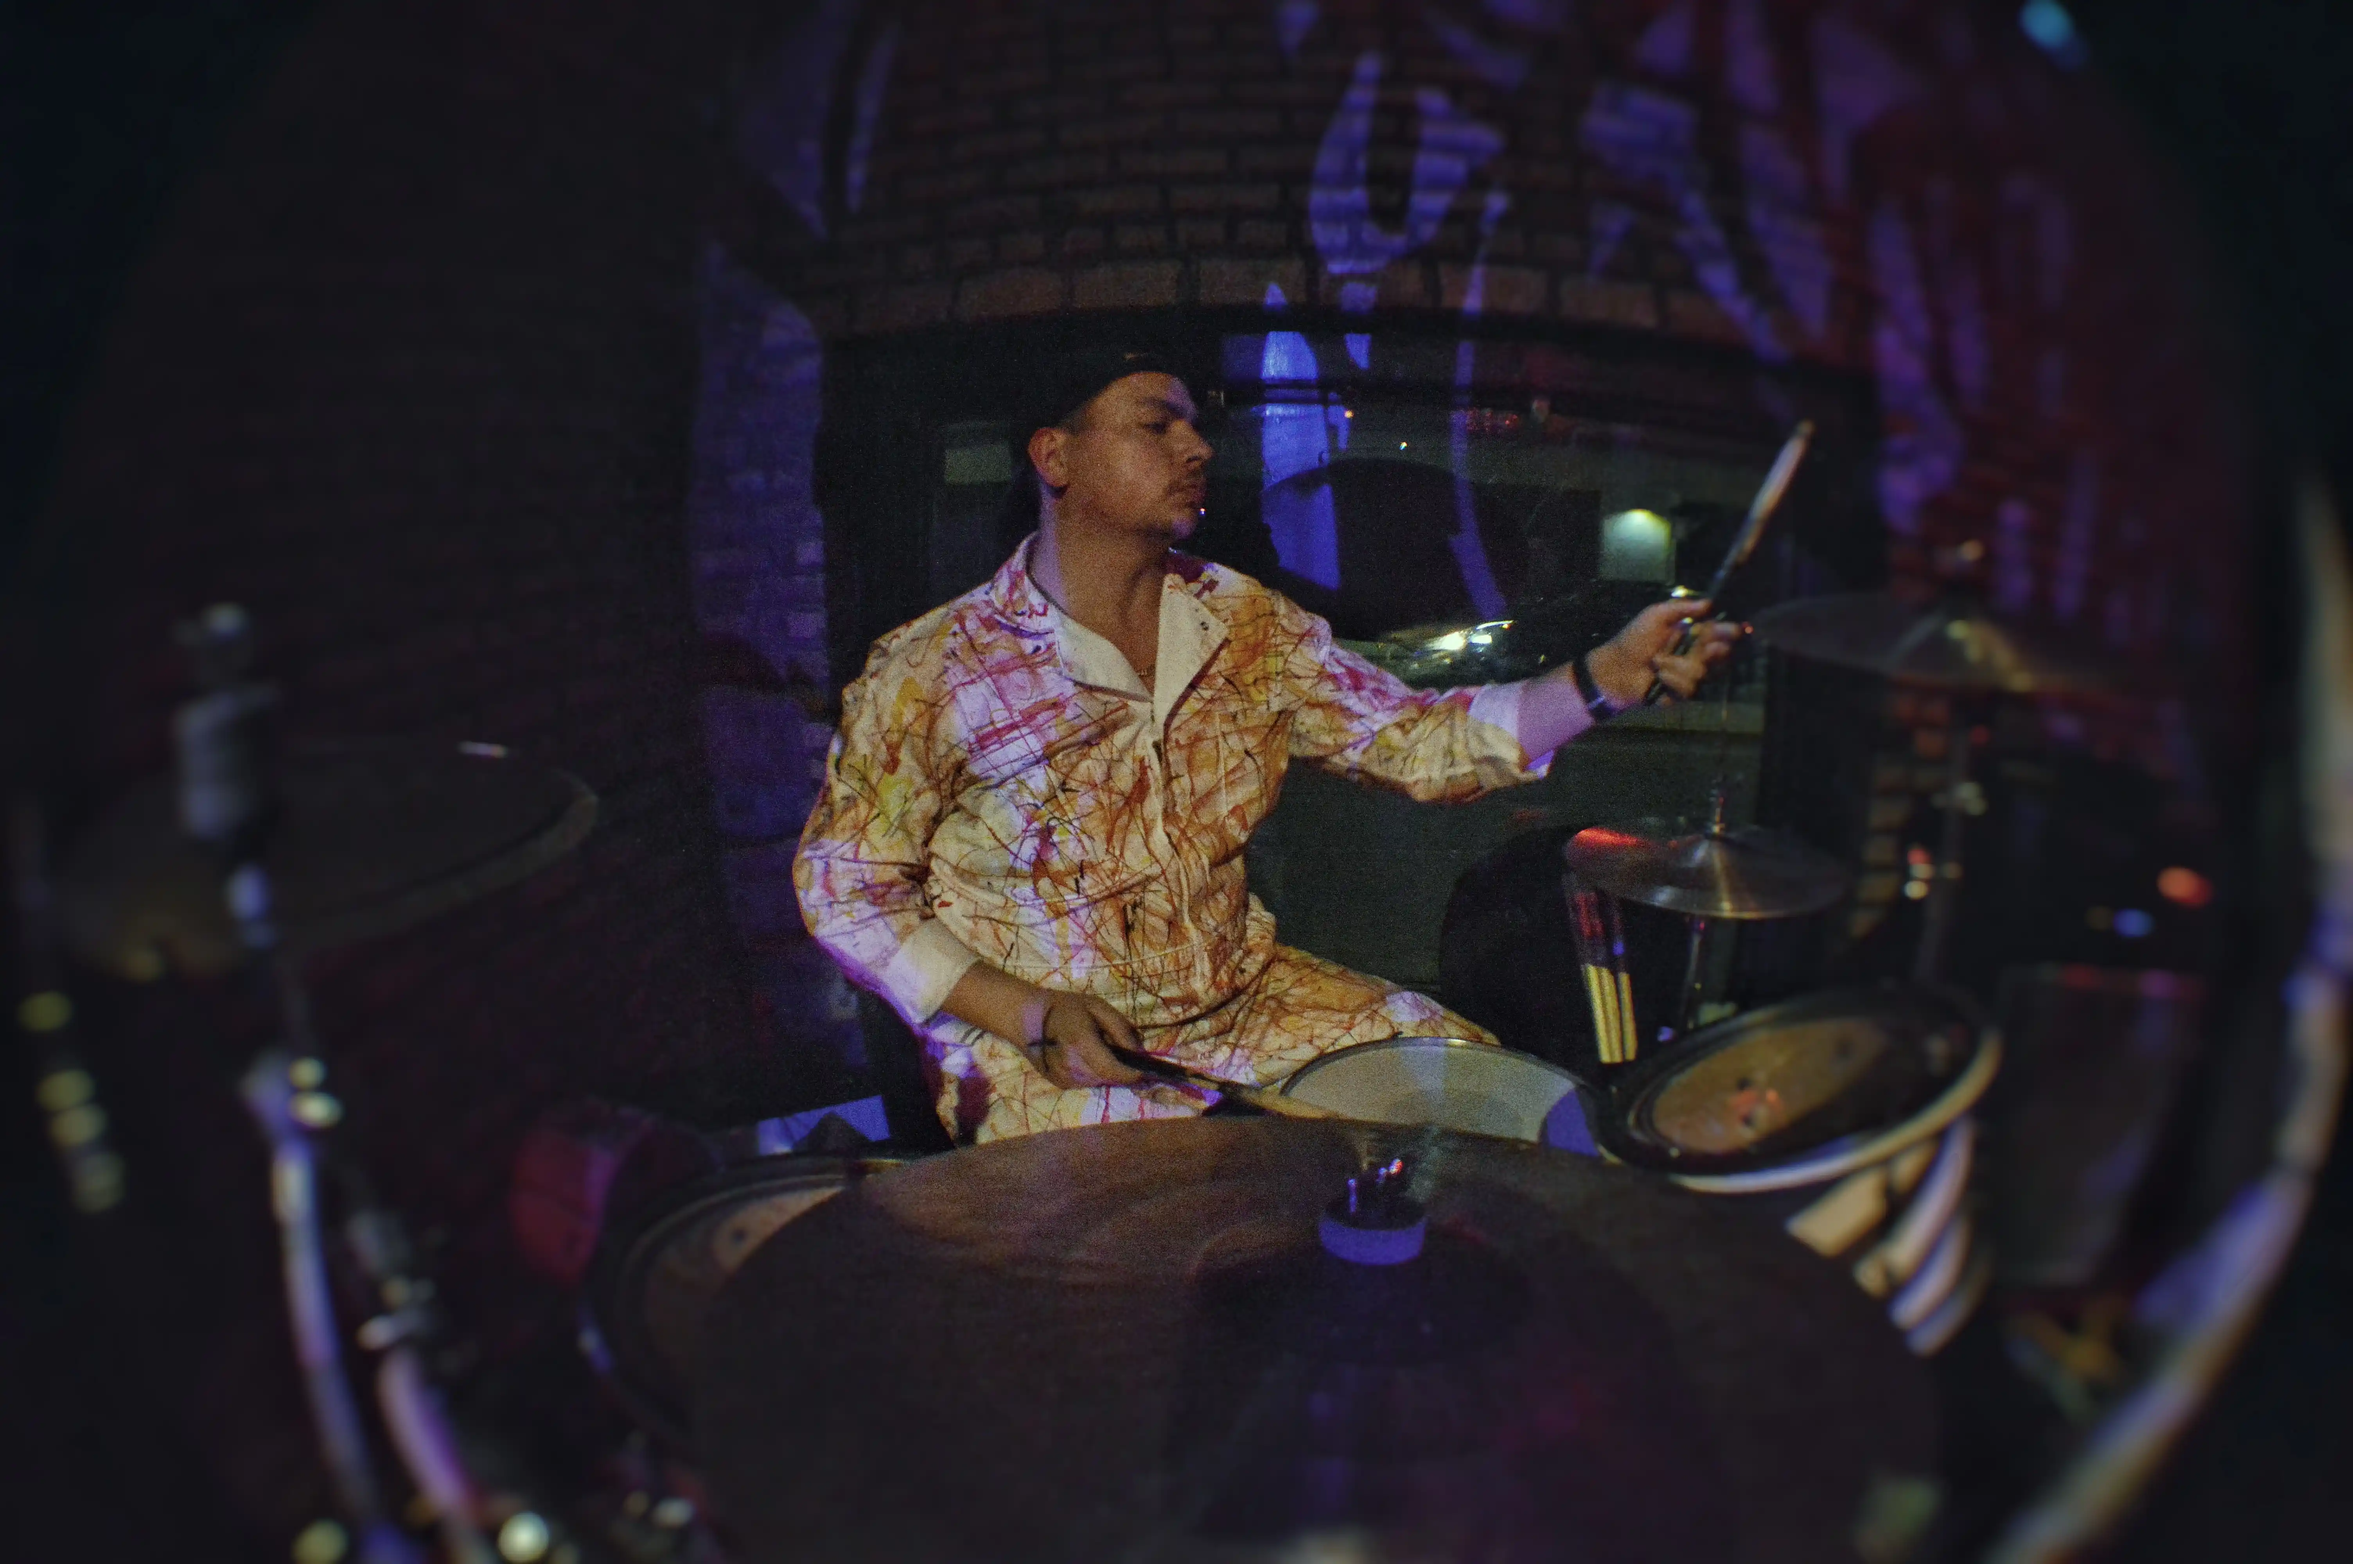
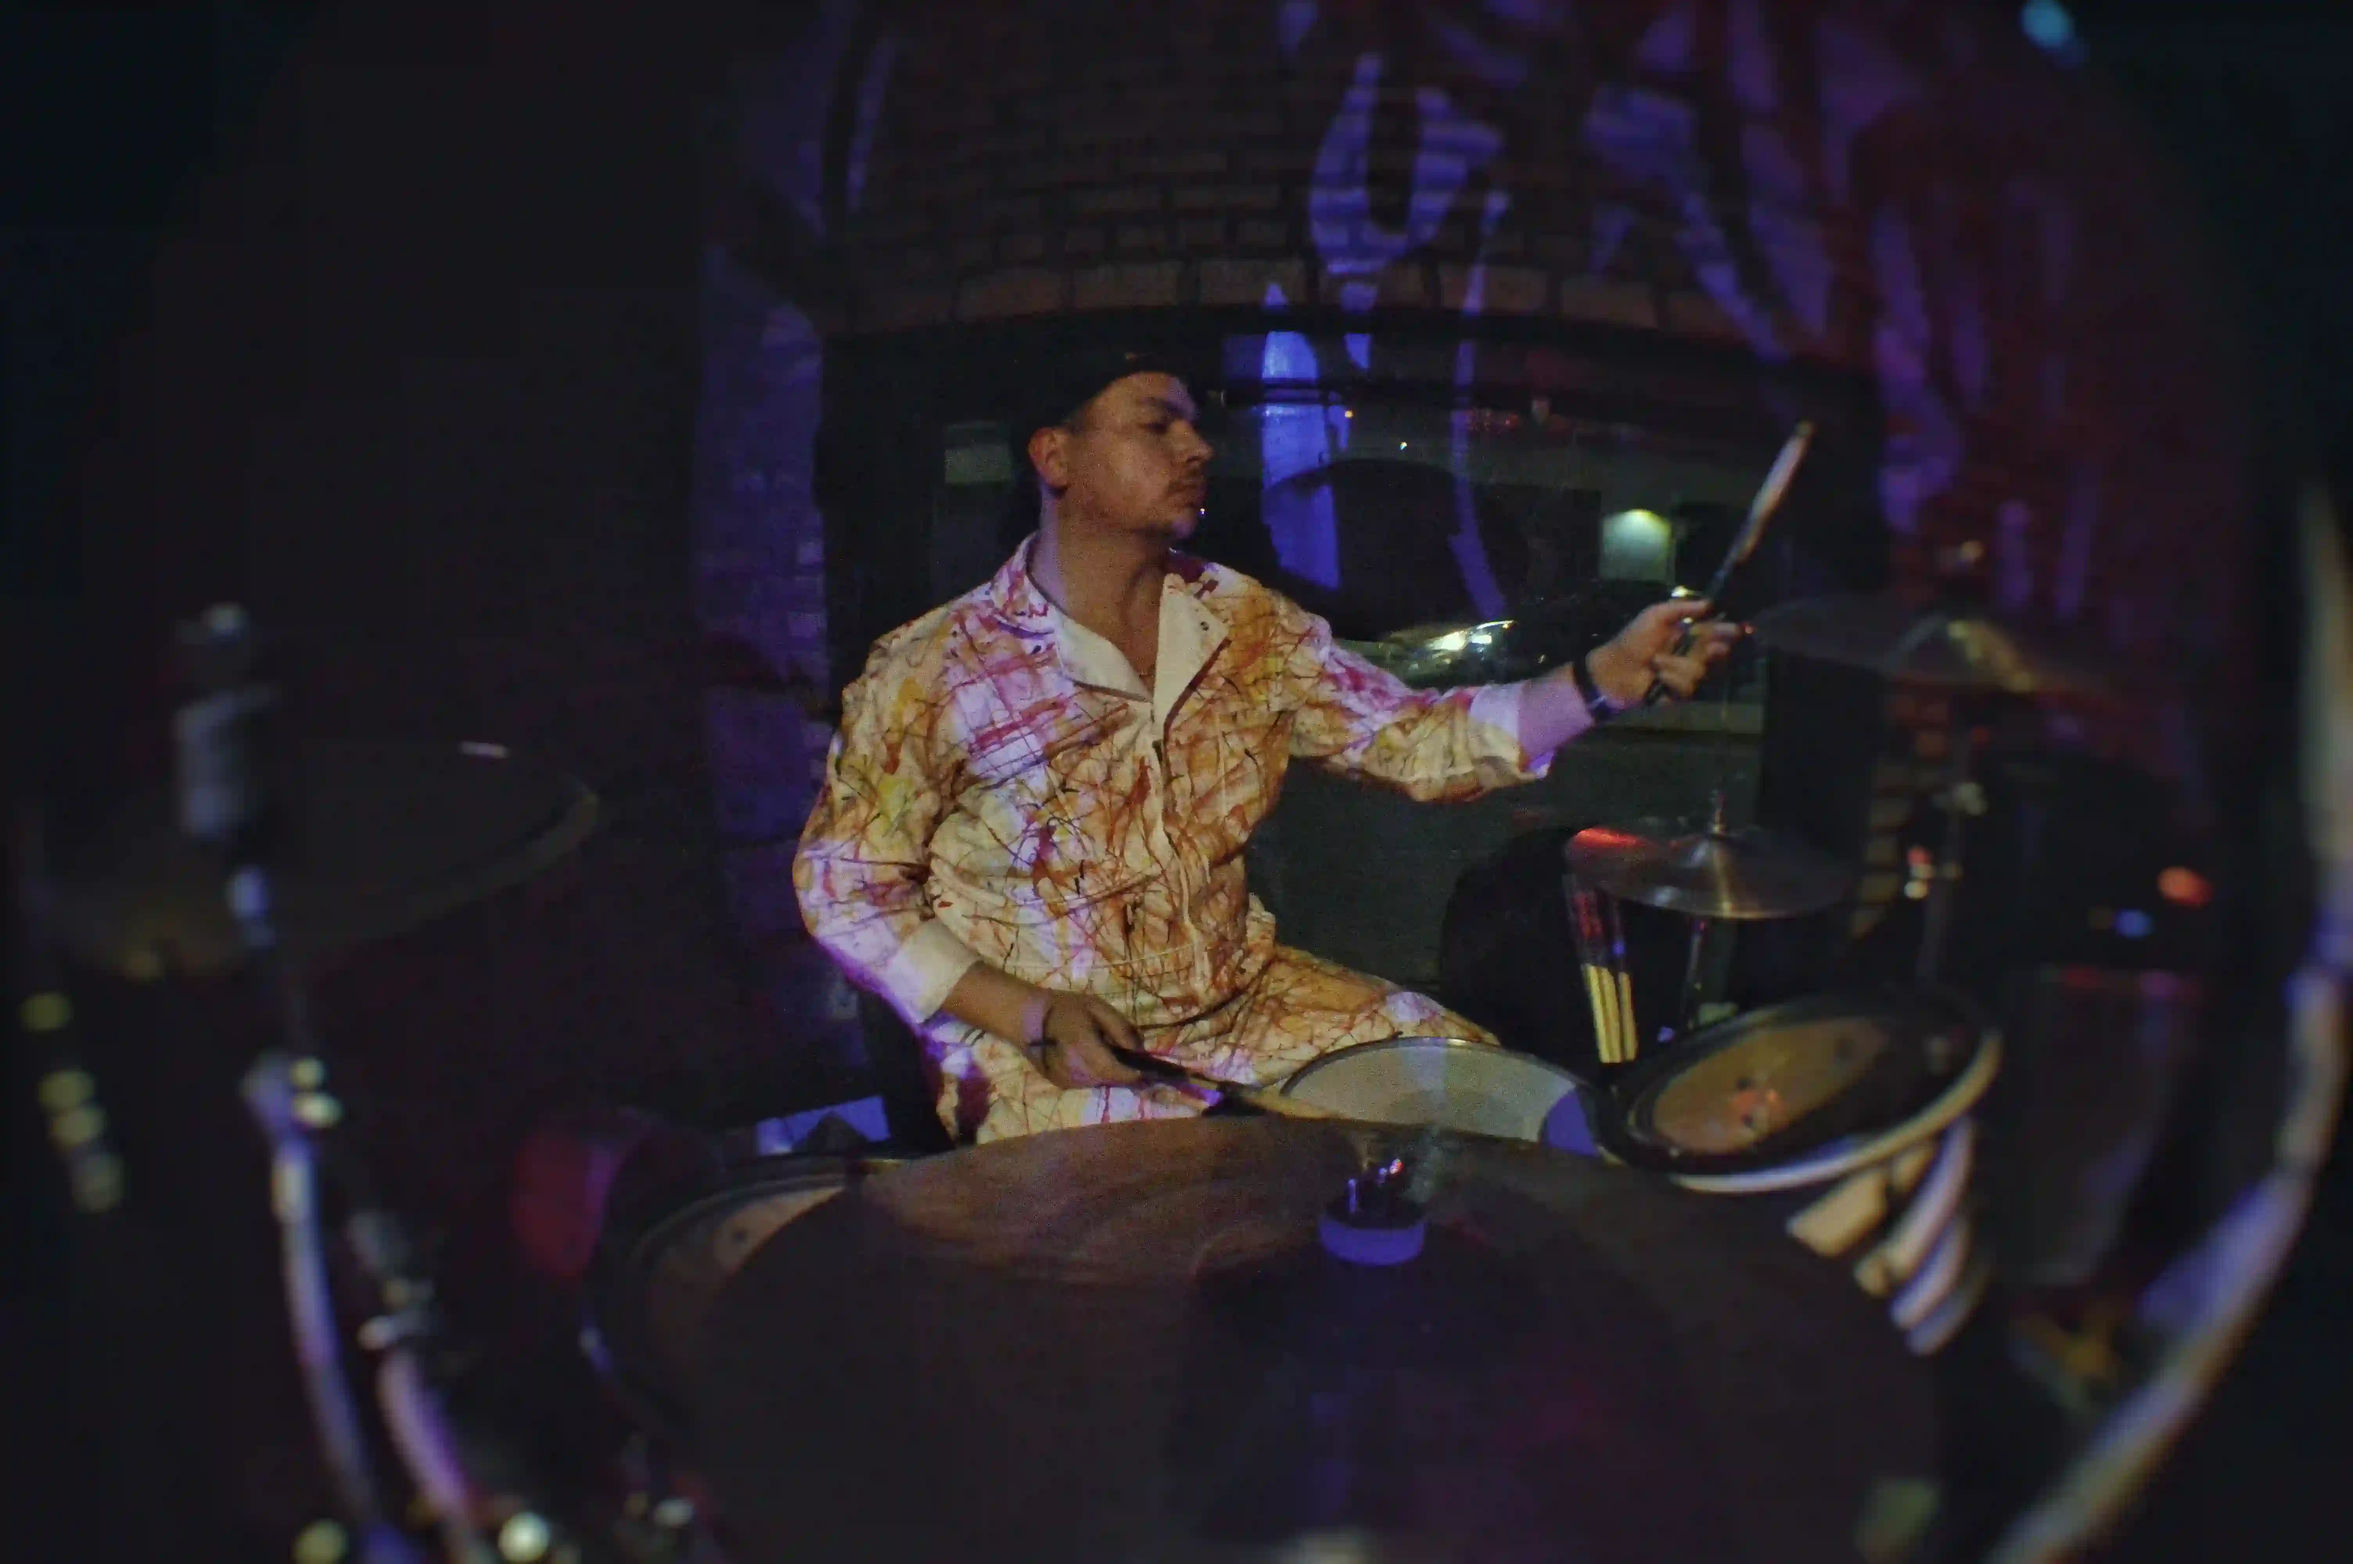
dowsizing images, fixed some styling issues

diff --git a/static/css/main.css b/static/css/main.css
@@ -3,52 +3,106 @@
 
 :root {
     color: white;
-    margin: 2rem;
     font-family: system-ui, -apple-system, BlinkMacSystemFont, 'Segoe UI', Roboto, Oxygen, Ubuntu, Cantarell, 'Open Sans', 'Helvetica Neue', sans-serif;
     text-align: left;
+    /* background-color: black; */
+    /* margin: 0 auto; */
     
+}
+*,
+*::before,
+*::after {
+    box-sizing: border-box;
+}
+
+html {
+    overflow-x: hidden;
 }
 
 
+
 body {
-    display: flex;
+    /* display: flex;
     flex-direction: column;
     align-items: center;
-    
+    background: black; */
     &.home {
-        background: url('../assets/backgrounds/indexbackground.jpeg') no-repeat center center fixed;
+        background: url('../assets/backgrounds/indexbackground.WebP') no-repeat center center fixed;
+        background-size: cover;
+    }
+    &.home.loaded {
+        background: url('../assets/backgrounds-small/indexbackground_small.WebP') no-repeat center center fixed;
+        background-size: cover;
+        background: url('../assets/backgrounds/indexbackground.WebP') no-repeat center center fixed;
         background-size: cover;
     }
     &.shows {
-        background: url('../assets/backgrounds/showsbackground.jpeg') no-repeat center center fixed;
+        background: url('../assets/backgrounds/showsbackground.WebP') no-repeat center center fixed;
         background-size: cover;
+    }
+    &.shows.loaded {
+    background: url('../assets/backgrounds-small/showsbackground_small.WebP') no-repeat center center fixed;
+    background-size: cover;
+    background: url('../assets/backgrounds/showsbackground.WebP') no-repeat center center fixed;
+    background-size: cover;
     }
     &.contact {
-        background: url('../assets/backgrounds/contactbackground.jpeg') no-repeat center center fixed;
+        background: url('../assets/backgrounds/contactbackground.WebP') no-repeat center center fixed;
         background-size: cover;
     }
+    &.contact.loaded {
+    background: url('../assets/backgrounds-small/contactbackground_small.WebP') no-repeat center center fixed;
+    background-size: cover;
+    background: url('../assets/backgrounds/contactbackground.WebP') no-repeat center center fixed;
+    background-size: cover;
+    }
     &.music {
-    background: url('../assets/backgrounds/musicbackground.jpeg') no-repeat center center fixed;
+    background: url('../assets/backgrounds/musicbackground.WebP') no-repeat center center fixed;
+    background-size: cover;
+    }
+    &.music.loaded {
+    background: url('../assets/backgrounds-small/musicbackground_small.WebP') no-repeat center center fixed;
+    background-size: cover;
+    background: url('../assets/backgrounds/musicbackground.WebP') no-repeat center center fixed;
     background-size: cover;
     }
     &.lessons {
-    background: url('../assets/backgrounds/lessonsbackground.jpeg') no-repeat center center fixed;
+    background: url('../assets/backgrounds/lessonsbackground.WebP') no-repeat center center fixed;
+    background-size: cover;
+    }
+    &.lessons.loaded {
+    background: url('../assets/backgrounds-small/lessonsbackground_small.WebP') no-repeat center center fixed;
+    background-size: cover;
+    background: url('../assets/backgrounds/lessonsbackground.WebP') no-repeat center center fixed;
     background-size: cover;
     }
     &.video {
-    background: url('../assets/backgrounds/videobackground.jpeg') no-repeat center center fixed;
+    background: url('../assets/backgrounds/videobackground.WebP') no-repeat center center fixed;
+    background-size: cover;
+    }
+    &.video.loaded {
+    background: url('../assets/backgrounds-small/videobackground_small.WebP') no-repeat center center fixed;
+    background-size: cover;
+    background: url('../assets/backgrounds/videobackground.WebP') no-repeat center center fixed;
     background-size: cover;
     }
     &.merch {
-    background: url('../assets/backgrounds/merchbackground.jpeg') no-repeat center center fixed;
+    background: url('../assets/backgrounds/merchbackground.WebP') no-repeat center center fixed;
+    background-size: cover;
+    }
+    &.merch.loaded {
+    background: url('../assets/backgrounds-small/merchbackground_small.WebP') no-repeat center center fixed;
+    background-size: cover;
+    background: url('../assets/backgrounds/merchbackground.WebP') no-repeat center center fixed;
     background-size: cover;
     }
     
 }
 .content {
-    margin-top: 3rem;
-    padding: 2rem;
-    width: 80%;
+    /* margin-top: 3rem; */
+    max-width: 1100px;
+    margin: 0 auto;
+    padding: 0 2rem;
     /* background-image: linear-gradient(to bottom right, rgba(84, 14, 14, 0.553), rgba(0, 0, 0, 0.46)); */
     background: rgba(22, 15, 15, 0.53);
     border-radius: 0px;
@@ -148,11 +202,11 @@ dialog::backdrop {
 footer {
     background-color: black;
     height: 90vh;
-    width: 100vw;
+    width: 100%;
     margin-bottom: -5rem;
     padding: 1rem;
     img {
-        width: 30vw;
+        height: 50%;
     }
 
 
@@ -170,7 +224,7 @@ footer {
     }
 
     p {
-        width: 100%;
+        width: 80%;
         text-align: center;
     }
     
@@ -339,7 +393,7 @@ footer {
 
 .alert {
     background-color: black;
-    width: 100vw;
+    width: 100%;
     margin-top: -2rem;
     p { 
         
@@ -447,7 +501,7 @@ footer {
     
     .content {
         margin-top: 6rem;
-        width: 98%;
+        width: 100%;
     }
 
     p { 
@@ -504,9 +558,14 @@ footer {
     }
 
     footer {
+        width: 100%;
         padding: 0;
+        margin: 0;
+
+
         img {
-            width: 60vw;
+            height: auto;
+            width: 65%;
         }
         li {
             margin: .7rem;
@@ -624,17 +683,15 @@ footer {
     }
 
 
-    .footer {
-        height: 80vh;
-    }
+
 
 }
 
 @media (max-width: 1000px) {
 
-    :root {
+    /* :root {
         margin: .5rem;
-    }
+    } */
     body.lessons {
         background: none;
         background-color: black;

diff --git a/templates/public/index.html b/templates/public/index.html
@@ -4,6 +4,9 @@
 <title>A Mammoth Task</title>
 {% endblock %}
 
+{% block head %}
+     <link rel="preload" as="image" href="{{ url_for('static', filename='assets/backgrounds/indexbackground.WebP')}}">
+{% endblock %}
 
 {% block body %}
 <body class="home">
@@ -41,7 +44,7 @@
                 <h1>Tasteless</h1>
                 <div style="justify-self: center;" class="flex-row album-announcement">
                     <div>
-                        <img src="{{ url_for('static', filename='assets/album-covers/tastelesscover.png') }}" alt="Taseteless album cover">
+                        <img load="lazy" src="{{ url_for('static', filename='assets/album-covers/tastelesscover.png') }}" alt="Taseteless album cover">
                     </div>
                     <div class="flex-column">
                         <p>
@@ -115,7 +118,7 @@
         <section>
             <h2 style="text-align: center;">Meet the Band</h2>
             <div class="flex-row bio-row">
-                <img src="{{ url_for('static', filename='assets/bios/chris.jpeg' )}}" alt="">
+                <img load="lazy" src="{{ url_for('static', filename='assets/bios/chris.jpeg' )}}" alt="">
                 <div>
                     <h4>Chris Fleming</h4>
                     <p>Bass/Vocals</p>
@@ -123,7 +126,7 @@
                 <p>As a young boy, Chris cut his teeth running sound for his dad's cover band of fisherman, Hookset. He's been in AMT since the very beginning and begrudgingly took on the task of learning how to sing. Outside of the band, he is a hoarder of masks, p-basses, and zoological artifacts of questionable legality. </p>
             </div>
             <div class="flex-row bio-row">
-                <img src="{{ url_for('static', filename='assets/bios/john.jpeg' )}}" alt="">
+                <img load="lazy" src="{{ url_for('static', filename='assets/bios/john.jpeg' )}}" alt="">
                 <div>
                     <h4>John Fitzgerald</h4>
                     <p>Drums</p>
@@ -131,7 +134,7 @@
                 <p>John spent his formative years pretending to be The Rev behind an electric kit. Chicago scenesters may know John as the drummer in Home Entertainment (RIP). He joined AMT in 2018 and has produced all of our albums since. If you're in the market for an audio engineer, look no further than J-Fitz Audio.</p>
             </div>
             <div class="flex-row bio-row">
-                <img src="{{ url_for('static', filename='assets/bios/logan.jpeg' )}}" alt="">
+                <img load="lazy" src="{{ url_for('static', filename='assets/bios/logan.jpeg' )}}" alt="">
                 <div>
                     <h4>Logan Huber</h4>
                     <p>Guitar</p>

diff --git a/templates/public/base.html b/templates/public/base.html
@@ -4,6 +4,9 @@
     <meta charset="UTF-8">
     <meta name="viewport" content="width=device-width, initial-scale=1.0">
     <meta name="description" content="Official website for the Chicago Prog Punk band A Mammoth Task.">
+    <!-- block head is used for 'preload' img message in link tag -->
+    {% block head %}
+    {% endblock %}
     <link rel="stylesheet" href="{{ url_for('static', filename='css/main.css') }}">
     <link rel="stylesheet" href="https://cdnjs.cloudflare.com/ajax/libs/font-awesome/4.7.0/css/font-awesome.min.css">
     {% block title %}
@@ -40,7 +43,7 @@
             </ul>
         </nav>
 
-        <img class="logo" src="{{ url_for('static', filename='assets/amt_logo.png') }}">
+        <img load="lazy" class="logo" src="{{ url_for('static', filename='assets/amt_logo_small.WebP') }}">
 
     <nav class="navbar">
         <ul class="nav-links flex-row link-icons">
@@ -66,7 +69,7 @@
             <li><a target="_blank" href="https://amammothtaskofficial.bandcamp.com/track/on-the-fly" class="fa fa-bandcamp link-hover"></a></li>
         </ul>
     </nav>
-    <img class="" src="{{ url_for('static', filename='assets/joy_stencil.png') }}" alt="amt-logo">
+    <img load="lazy" class="" src="{{ url_for('static', filename='assets/joy_stencil.png') }}" alt="amt-logo">
     <p>amammothtaskmusic@gmail.com</p>
     <p>Site designed by Logan Huber</p>
 </footer> 

diff --git a/static/javascript/main.js b/static/javascript/main.js
@@ -1,5 +1,8 @@
+window.onload = () => {
+    loadImgs()
+}
 document.addEventListener('DOMContentLoaded', () => {
-    // handleLoader()
+
     document.addEventListener('click', toggleMenu)
     document.addEventListener('click', toggleTabs)
 })
@@ -53,3 +56,15 @@ function toggleTabs(e) {
 //     content.classList.remove('hidden')
 //     content.classList.add('flex-column')
 // }
+
+function loadImgs() {
+    const body = document.querySelector('body')
+    body.classList.add('loaded')
+}
+
+
+[...document.querySelectorAll("*")].forEach(el => {
+  if (el.scrollWidth > document.documentElement.clientWidth) {
+    console.log(el);
+  }
+});

diff --git a/static/css/navbar.css b/static/css/navbar.css
@@ -1,8 +1,9 @@
 header {
     justify-content: center;
+    margin: 0 auto;
     margin-top: 0;
     padding-top: 0;
-    width: 100vw;
+    width: 90vw;
     /* background-color: black; */
     & > * {
         flex: 1;
@@ -29,7 +30,7 @@ header {
 }
 
 .logo {
-    max-width: 20vw;
+    max-height: 40vh;
     object-fit:contain;
     aspect-ratio: 1/1;
 }
